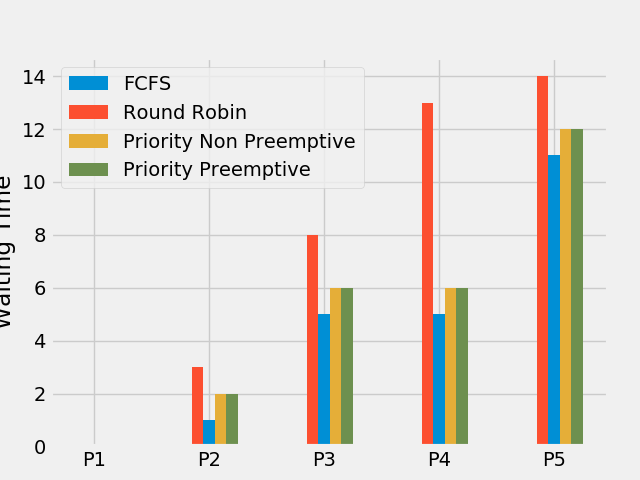
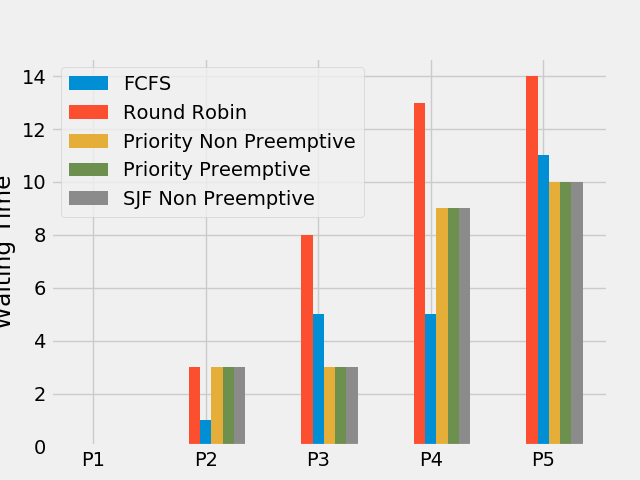
sjf added to compare

diff --git a/src/CompareAll.py b/src/CompareAll.py
@@ -2,6 +2,7 @@ from src import PRIORITY_NP
 from src import FCFS
 from src import PRIORITY_P
 from src import ROUND_ROBIN
+from src import SJF_NP
 import matplotlib.pyplot as plt
 import numpy as np
 
@@ -67,11 +68,29 @@ def compare():
 
     pp_waiting,pp_turn_around,w_time,t_time =PRIORITY_P.schedulingProcess(processes_data) 
 
+    processes_data =[]
+
+    for i in range(len(processes)):
+        l = [] 
+        for j in range(4): 
+            l.append(0) 
+        processes_data.append(l) 
+
+    for i in range(len(processes)):
+        processes_data[i][0] = processes[i]
+        processes_data[i][1] = arrival_time[i]
+        processes_data[i][2] = burst_time[i]
+        processes_data[i][3] = 0
+
+
+    sn_waiting,sn_turn_around,sn_compl_time =SJF_NP.schedulingProcess(processes_data) 
+
 
     plt.bar(x, f_waiting, width = 0.1,label = "FCFS")
     plt.bar(x - 0.1, r_waiting, width = 0.1,label = "Round Robin" )
     plt.bar(x+0.1,np_waiting,width=0.1,label = "Priority Non Preemptive")
     plt.bar(x+0.2,np_waiting,width=0.1,label = "Priority Preemptive")   
+    plt.bar(x+0.3,np_waiting,width=0.1,label = "SJF Non Preemptive")   
     plt.xticks(x,processes)
     plt.ylabel("Waiting Time")
     plt.legend()
